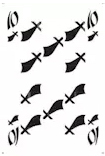
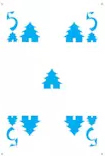
styled choose your Points

diff --git a/style.css b/style.css
@@ -47,18 +47,24 @@ justify-content: center;
 }
 .team1-container, .team2-container{
     display: flex;
-    justify-content: center;
-    align-items: center;
+   column-gap: 20px; 
+   justify-content: space-between;
+}
+.team1, .team2{
+    display: flex;
+    flex-direction: column;
 }
 .team1-button, .team2-button{
-  align-self: flex-end; 
+  align-self: flex-end;
+
   }
 #name1, #name2, #name3, #name4{
-    margin-top: 10px;
+    margin-top: 15px;
     background-color: var(--primary-grey-color);
     border:none;
     border-radius: 8px;
     height:25px;
+    width: 200px;
     padding-left: 10px;
 }
 #random-team{
@@ -79,7 +85,7 @@ padding: 15px;
     grid-template-areas: 
     "roundNo roundTeam1 roundTeam2"
     "number  pointTeam1 pointTeam2";
-    margin-top:10px;
+    margin-top:15px;
 }
 .rounds-header-no{
     grid-area: roundNo; 
@@ -109,7 +115,7 @@ padding: 15px;
     display:flex;
     justify-content:center;
     gap: 20px;
-    margin-top: 10px;
+    margin-top: 20px;
 }
 .points-special{
     display: flex;
@@ -118,14 +124,122 @@ padding: 15px;
 }
 .points-cards{
     display: flex;
-    flex-direction: column;
+    flex-direction: row;
     gap: 20px;
+    flex-wrap: wrap;
+    max-width: 1000px;
+    justify-content: center;
 }
-.points-cards1, .points-cards2{
-    display: flex;
-    }
+
  #card1{
-height: 200px;
-min-width: 150px;
+height: 150px;
+min-width: 110px;
 background-color: transparent;
+background: url(assets/black-5.jpg);
+background-position: center;
+background-repeat: no-repeat;
  }   
+ #card2{
+    height: 150px;
+    min-width: 110px;
+    background-color: transparent;
+    background: url(assets/blue-5.jpg);
+    background-position: center;
+    background-repeat: no-repeat;
+}   
+#card3{
+    height: 150px;
+    min-width: 110px;
+    background-color: transparent;
+    background: url(assets/red-5.jpg);
+    background-position: center;
+    background-repeat: no-repeat;
+} 
+#card4{
+    height: 150px;
+    min-width: 110px;
+    background-color: transparent;
+    background: url(assets/green-5.jpg);
+    background-position: center;
+    background-repeat: no-repeat;
+}
+#card5{
+    height: 150px;
+    min-width: 110px;
+    background-color: transparent;
+    background: url(assets/black-10.jpg);
+    background-position: center;
+    background-repeat: no-repeat;
+}  
+#card6{
+    height: 150px;
+    min-width: 110px;
+    background-color: transparent;
+    background: url(assets/blue-10.jpg);
+    background-position: center;
+    background-repeat: no-repeat;
+}  
+#card7{
+    height: 150px;
+    min-width: 110px;
+    background-color: transparent;
+    background: url(assets/red-10.jpg);
+    background-position: center;
+    background-repeat: no-repeat;
+}
+#card8{
+    height: 150px;
+    min-width: 110px;
+    background-color: transparent;
+    background: url(assets/green-10.jpg);
+    background-position: center;
+    background-repeat: no-repeat;
+}
+#card9{
+    height: 150px;
+    min-width: 110px;
+    background-color: transparent;
+    background: url(assets/black-king.jpg);
+    background-position: center;
+    background-repeat: no-repeat;
+}
+#card10{
+    height: 150px;
+    min-width: 110px;
+    background-color: transparent;
+    background: url(assets/blue-king.jpg);
+    background-position: center;
+    background-repeat: no-repeat;
+}
+#card11{
+    height: 150px;
+    min-width: 110px;
+    background-color: transparent;
+    background: url(assets/red-king.jpg);
+    background-position: center;
+    background-repeat: no-repeat;
+}
+#card12{
+    height: 150px;
+    min-width: 110px;
+    background-color: transparent;
+    background: url(assets/blue-king.jpg);
+    background-position: center;
+    background-repeat: no-repeat;
+}
+#card13{
+    height: 150px;
+    min-width: 110px;
+    background-color: transparent;
+    background: url(assets/dragon.jpg);
+    background-position: center;
+    background-repeat: no-repeat;
+}
+#card14{
+    height: 150px;
+    min-width: 110px;
+    background-color: transparent;
+    background: url(assets/Phoenix.jpg);
+    background-position: center;
+    background-repeat: no-repeat;
+}

diff --git a/index.html b/index.html
@@ -65,16 +65,13 @@
     <button id="double-victory">Double Victory</button>
   </div>
   <div class="points-cards">
-  <div class="points-cards1">
-    <button id="card1"></button>
+  <button id="card1"></button>
     <button id="card2"></button>
     <button id="card3"></button>
     <button id="card4"></button>
     <button id="card5"></button>
     <button id="card6"></button>
     <button id="card7"></button>
-  </div>
-  <div class="points-cards2">
     <button id="card8"></button>
     <button id="card9"></button>
     <button id="card10"></button>
@@ -82,7 +79,6 @@
     <button id="card12"></button>
     <button id="card13"></button>
     <button id="card14"></button>
-  </div>
 </div>
 </div>
 
